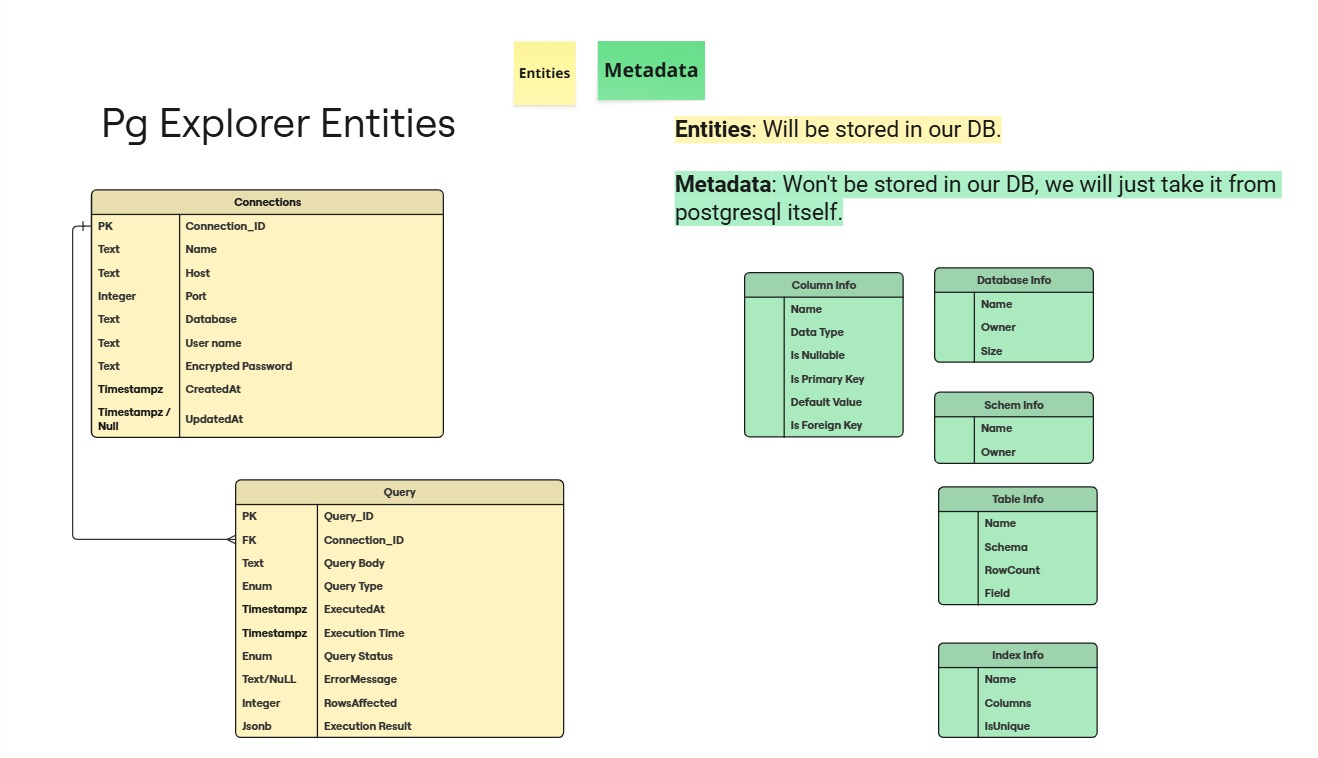
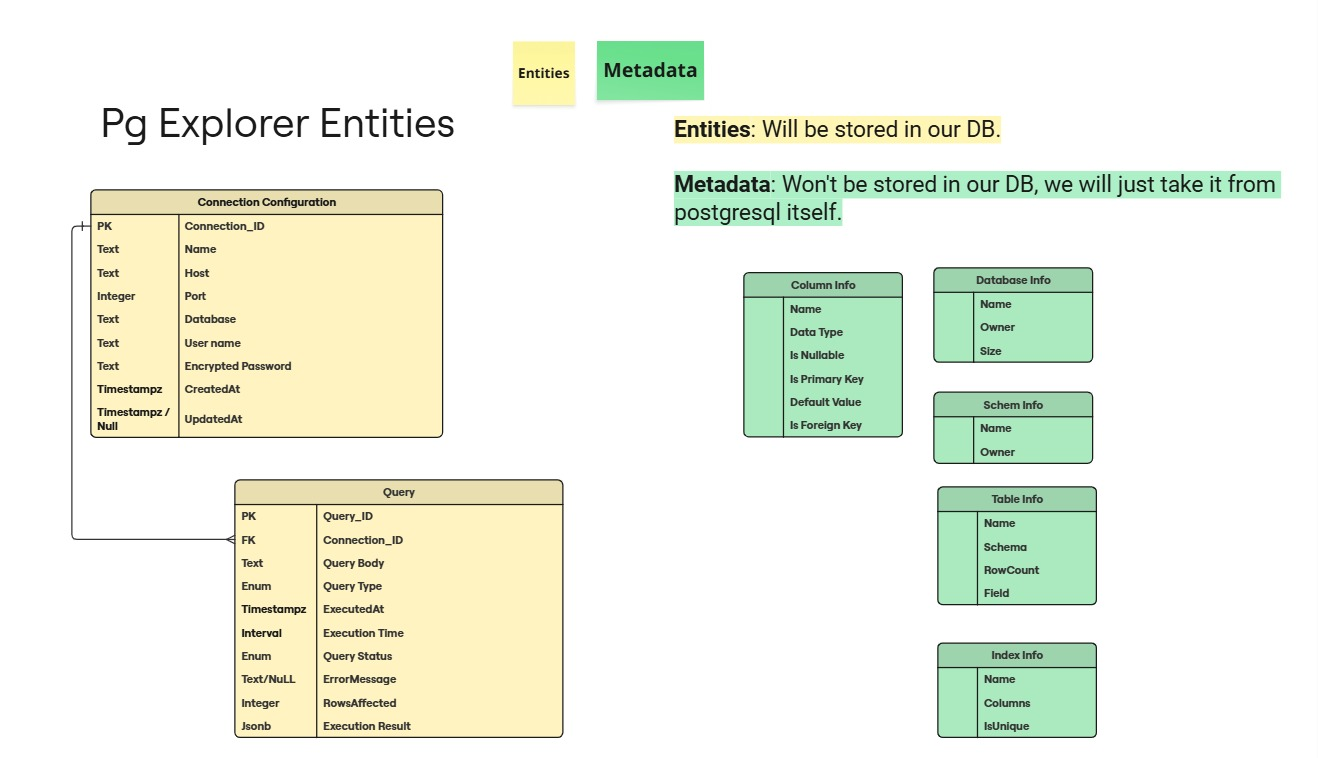
doc: change ERD image and mark down file

diff --git a/docs/Entities.md b/docs/Entities.md
@@ -7,7 +7,7 @@ Metadata is information we **read directly from PostgreSQL**, not stored by us.
 
 ## 📦 Entities (Stored in our DB)
 
-### Connections
+### Connection Configuration
 - **Connection_ID** (PK)
 - Name
 - Host
